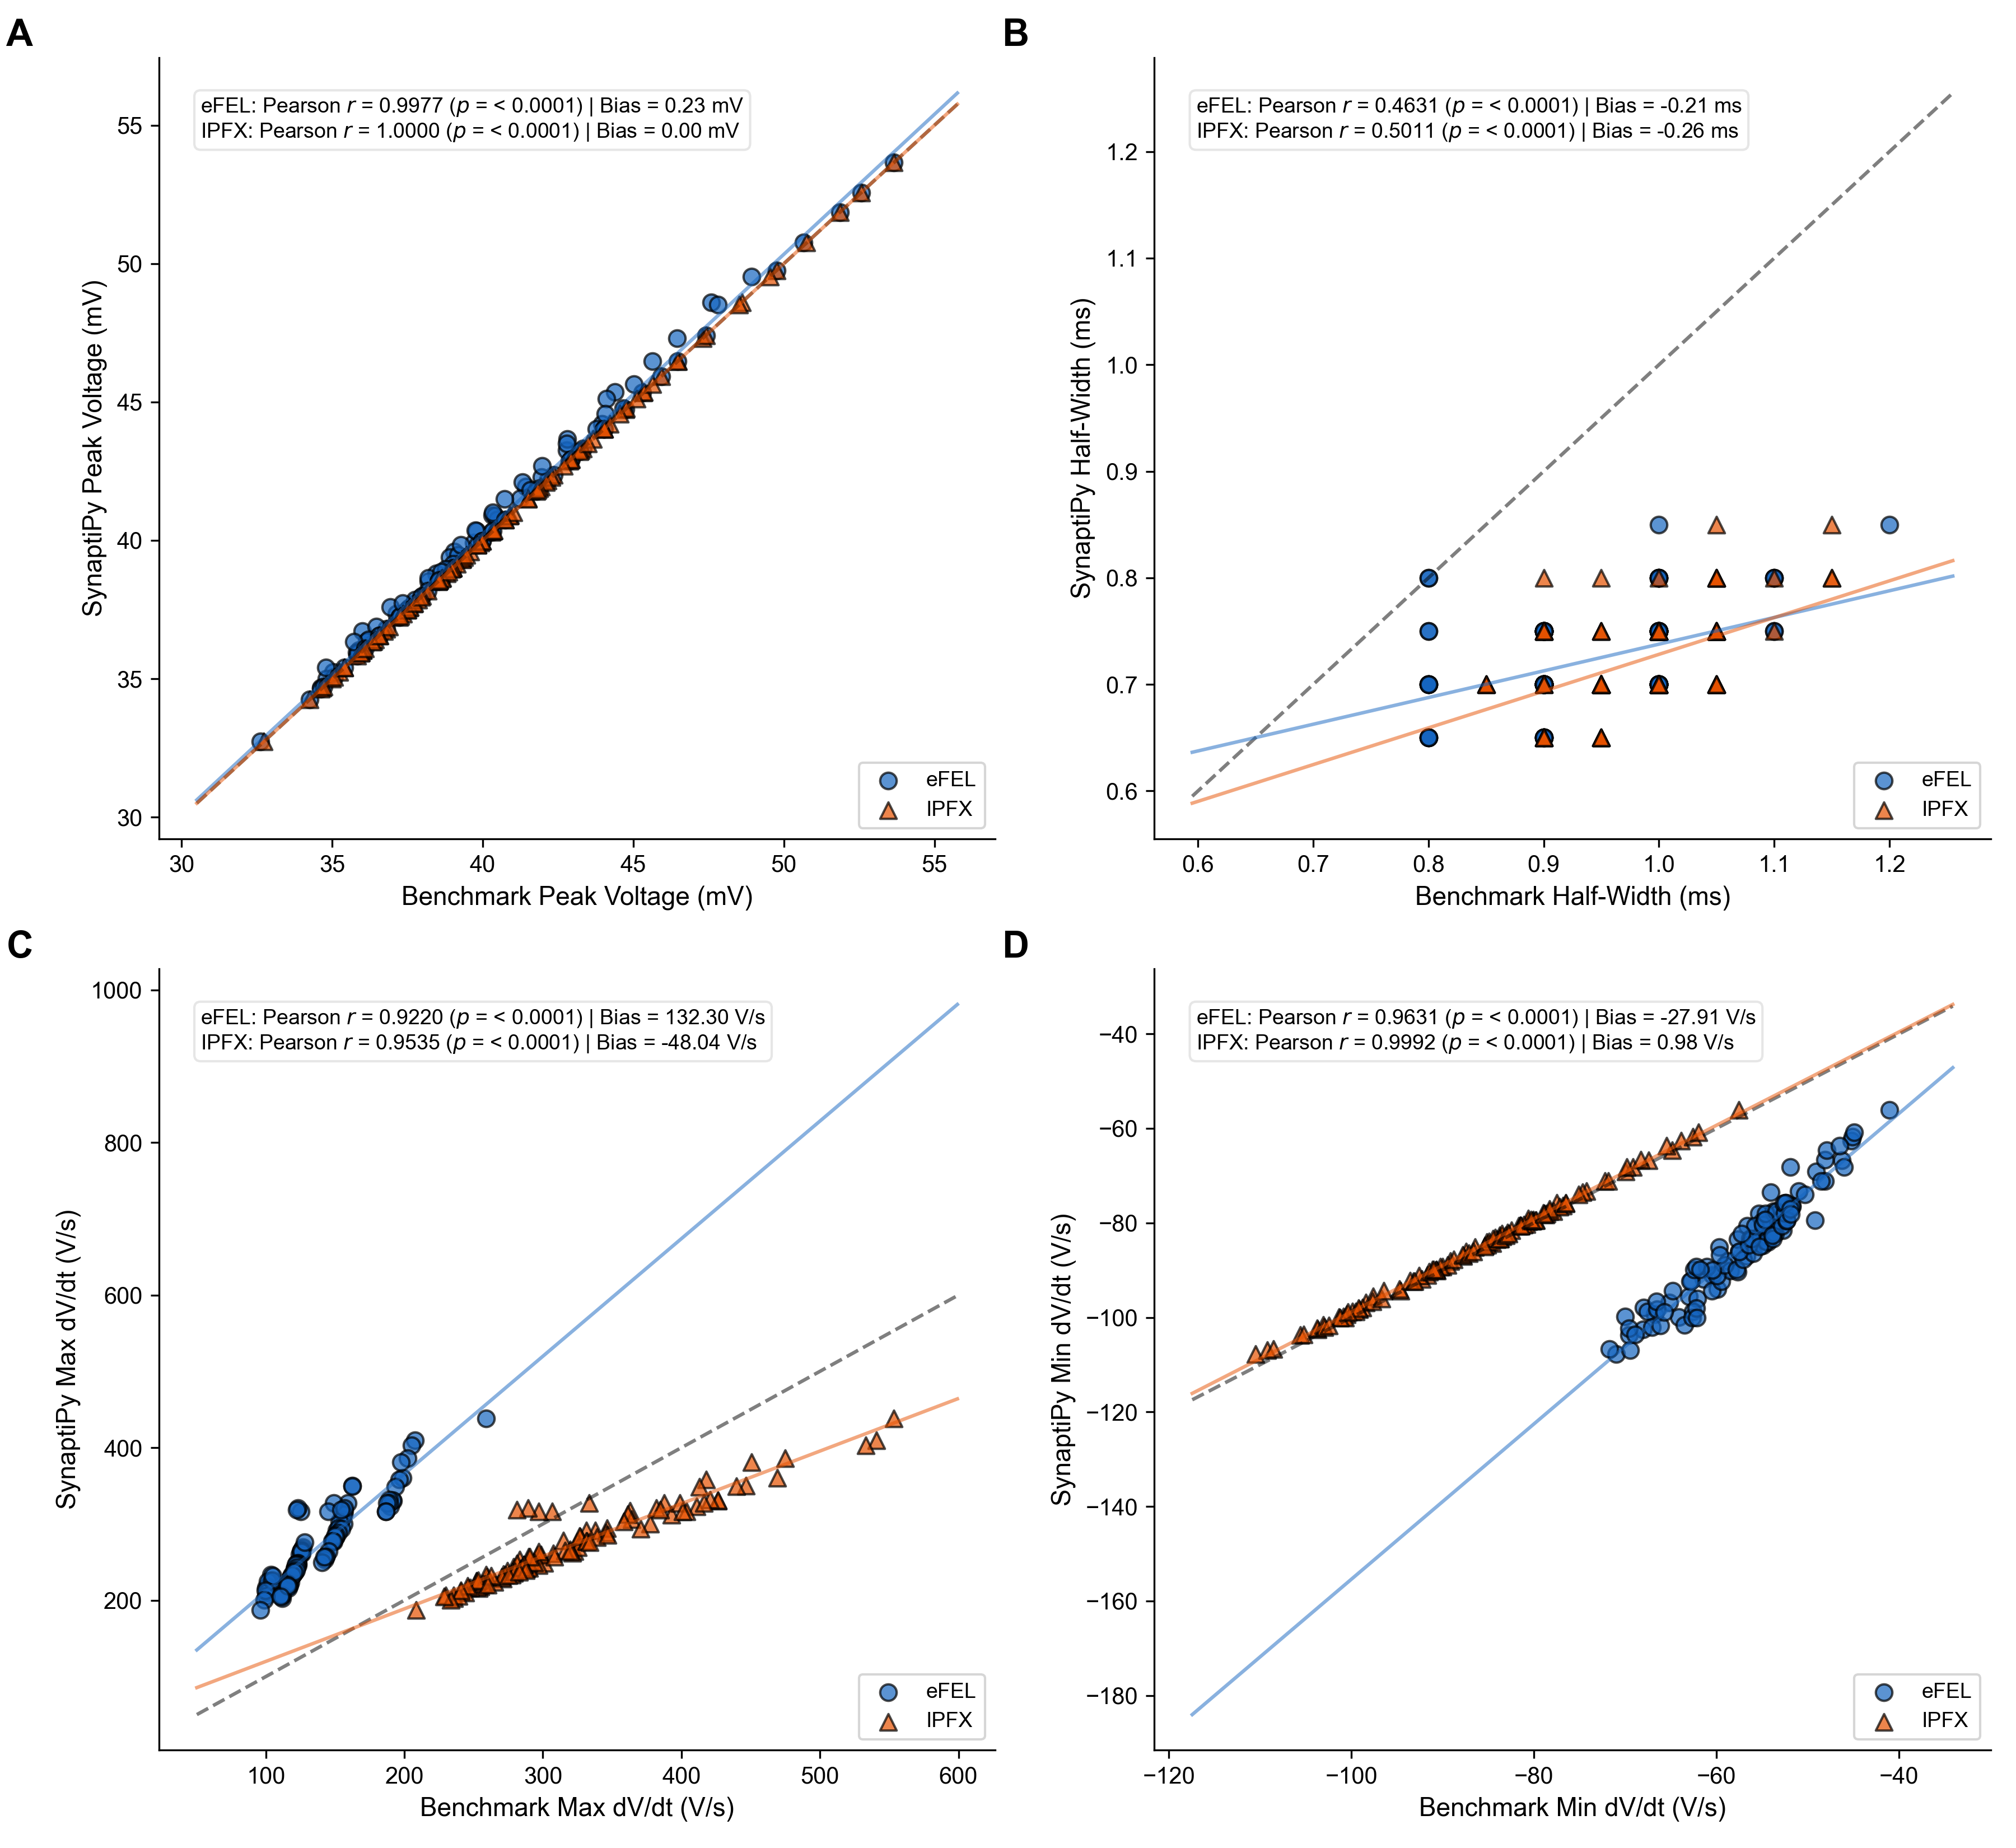
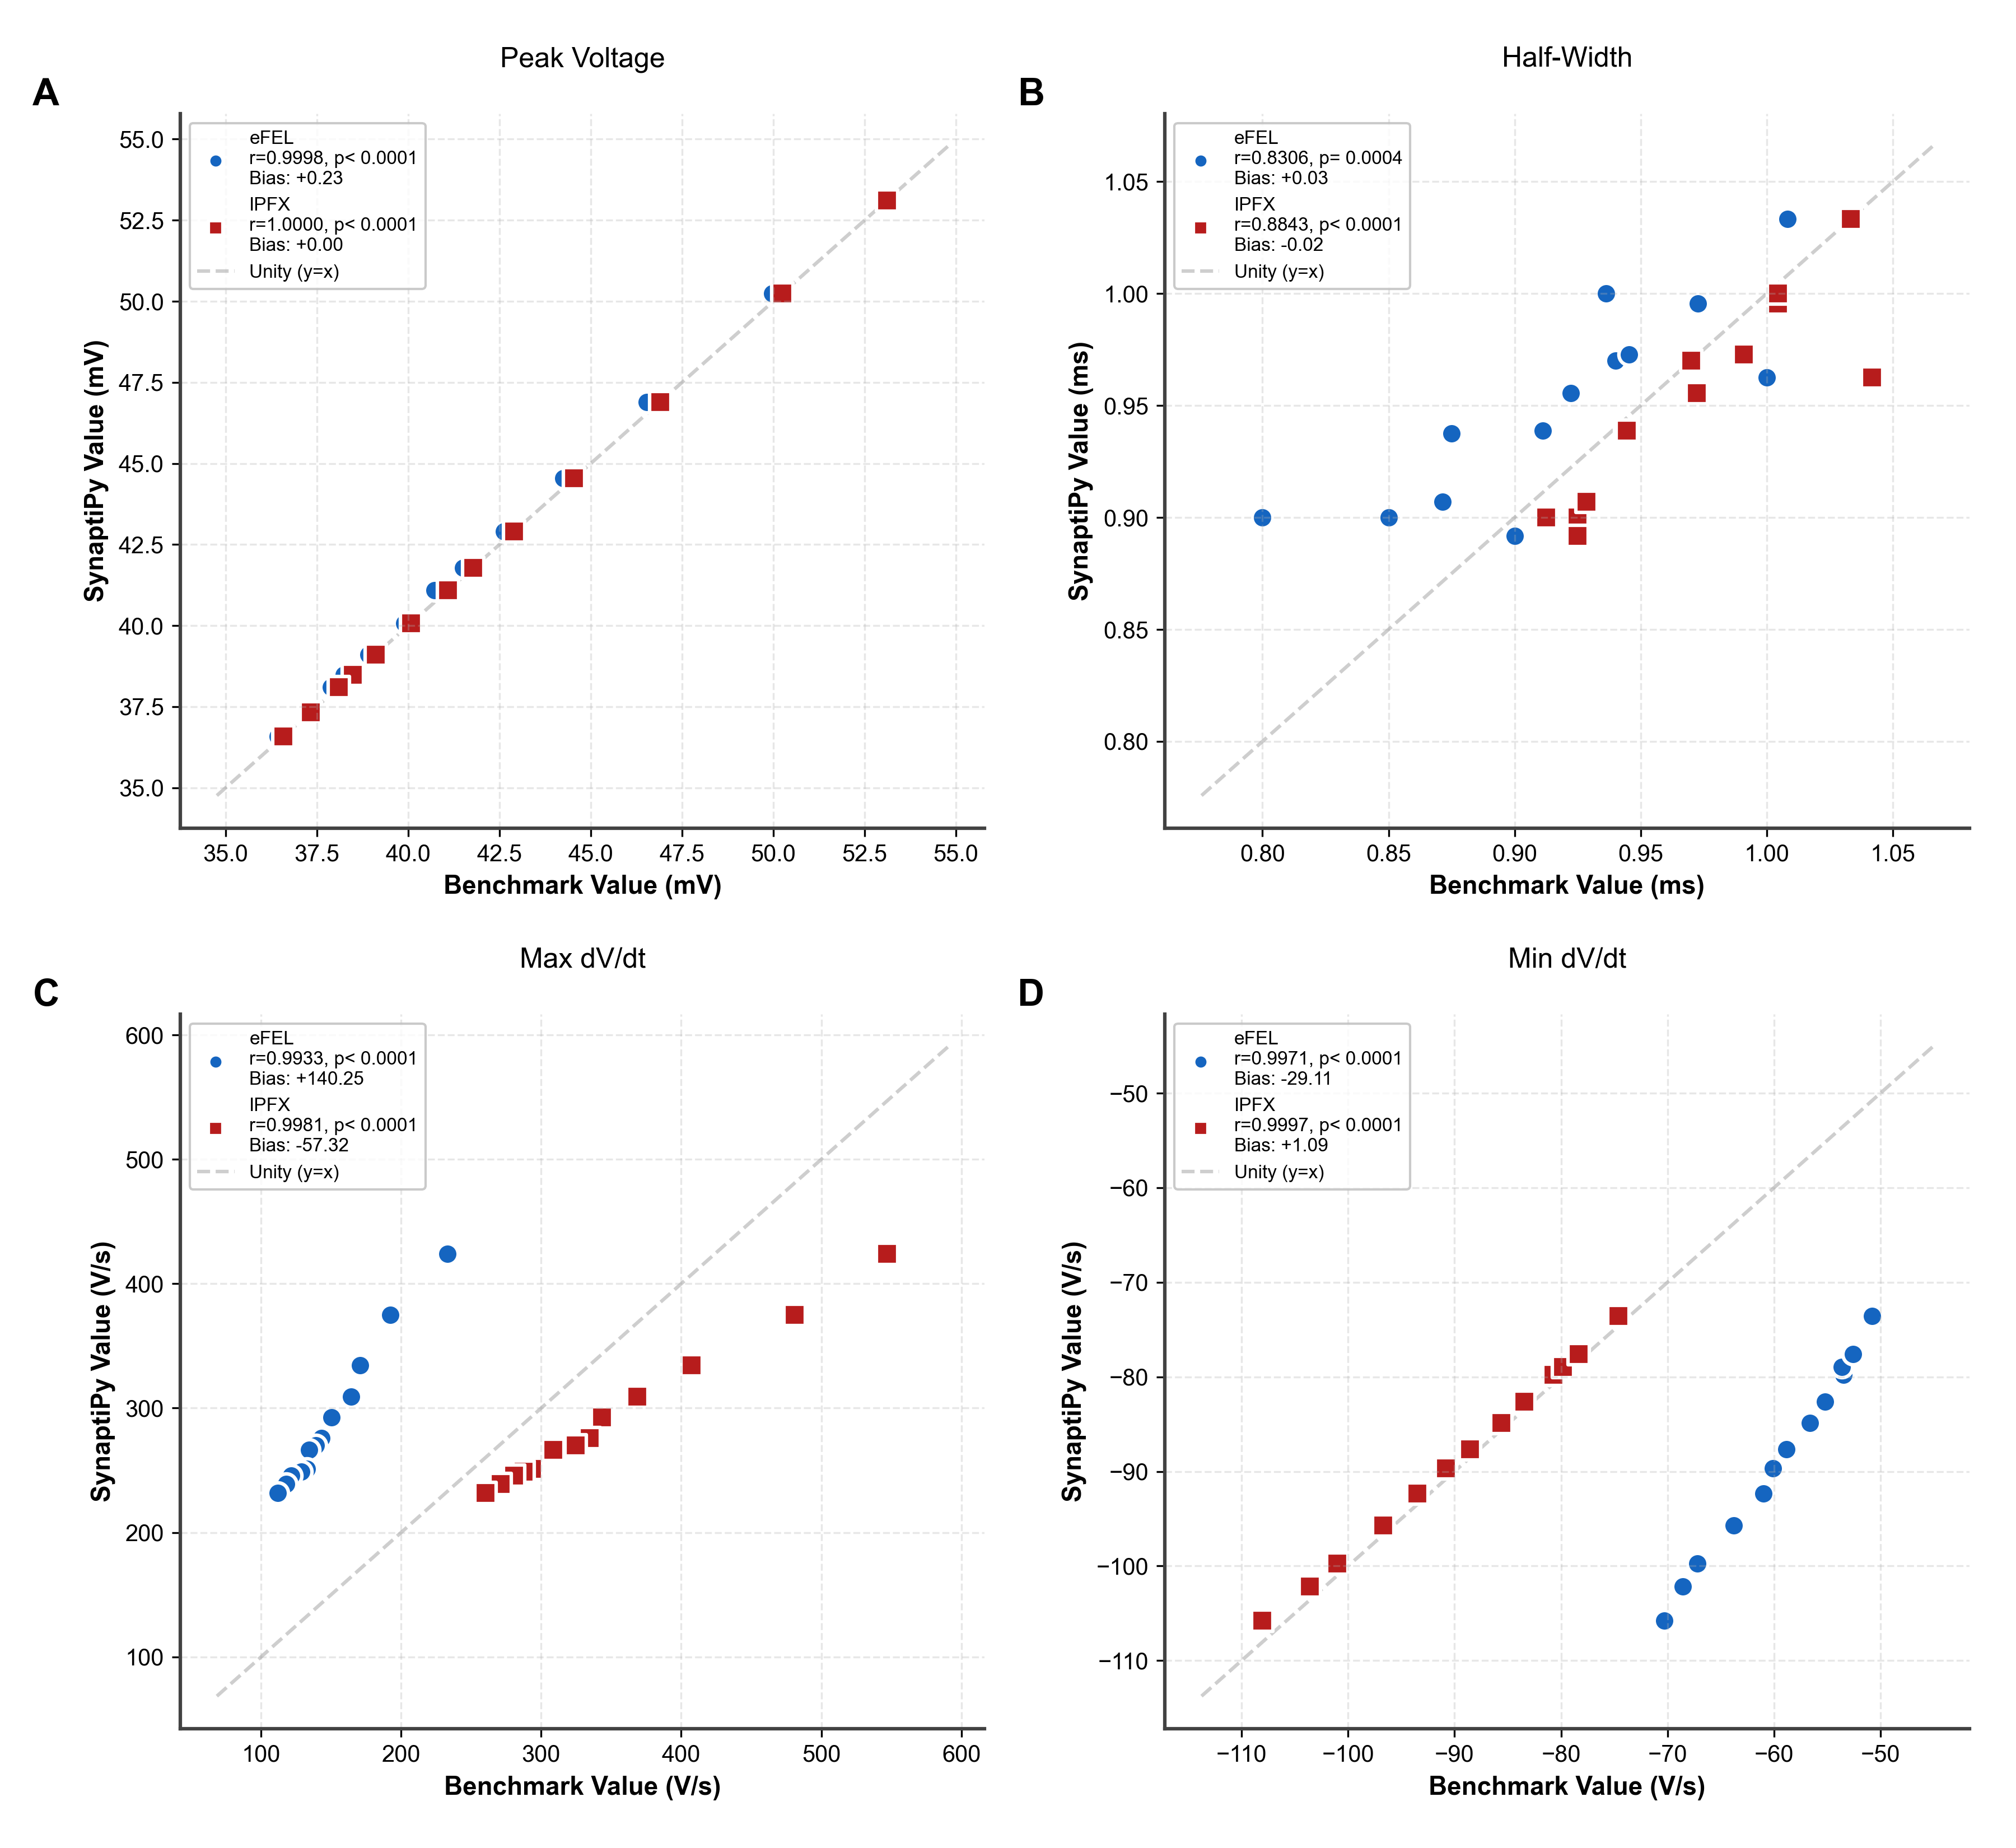
feat: incorporate biological validation figure generation into plot_csvs.py and remove redundant validation script

diff --git a/scripts/plot_csvs.py b/scripts/plot_csvs.py
@@ -176,4 +176,69 @@ fig3.tight_layout()
 fig3.savefig(base / "e2e_rendering_benchmark_macos.png", dpi=300)
 plt.close(fig3)
 
+# ---------------------------------------------------------
+# Figure 2: biological_validation.png
+# ---------------------------------------------------------
+import pandas as pd
+from scipy.stats import pearsonr
+
+bench_df = pd.read_csv(base / "benchmark_comparison.csv")
+
+fig_bio, axes_bio = plt.subplots(2, 2, figsize=(12, 11))
+axes_bio = axes_bio.flatten()
+
+metrics = [
+    ("Peak Voltage", "syn_peak_mV", "efel_peak_mV", "ipfx_peak_mV", "mV", "A"),
+    ("Half-Width", "syn_hw_ms", "efel_hw_ms", "ipfx_hw_ms", "ms", "B"),
+    ("Max dV/dt", "syn_maxdvdt", "efel_maxdvdt", "ipfx_maxdvdt", "V/s", "C"),
+    ("Min dV/dt", "syn_mindvdt", "efel_mindvdt", "ipfx_mindvdt", "V/s", "D")
+]
+
+def format_p(p):
+    if p < 0.0001: return "< 0.0001"
+    return f"= {p:.4f}"
+
+for i, (title, c_syn, c_efel, c_ipfx, unit, panel_label) in enumerate(metrics):
+    ax = axes_bio[i]
+    df_valid = bench_df.dropna(subset=[c_syn, c_efel, c_ipfx])
+    
+    y_syn = df_valid[c_syn].values
+    x_efel = df_valid[c_efel].values
+    x_ipfx = df_valid[c_ipfx].values
+    
+    r_e, p_e = pearsonr(x_efel, y_syn)
+    mb_e = np.mean(y_syn - x_efel)
+    
+    r_i, p_i = pearsonr(x_ipfx, y_syn)
+    mb_i = np.mean(y_syn - x_ipfx)
+    
+    ax.scatter(x_efel, y_syn, color=COLORS['blue'], s=80, edgecolors='white', linewidths=1.5,
+               label=f'eFEL\nr={r_e:.4f}, p{format_p(p_e)}\nBias: {mb_e:+.2f}')
+    
+    ax.scatter(x_ipfx, y_syn, color=COLORS['red'], s=80, edgecolors='white', linewidths=1.5, marker='s',
+               label=f'IPFX\nr={r_i:.4f}, p{format_p(p_i)}\nBias: {mb_i:+.2f}')
+    
+    min_val = min(np.min(y_syn), np.min(x_efel), np.min(x_ipfx))
+    max_val = max(np.max(y_syn), np.max(x_efel), np.max(x_ipfx))
+    margin = (max_val - min_val) * 0.1
+    lims = [min_val - margin, max_val + margin]
+    
+    ax.plot(lims, lims, '--', color=COLORS['grey'], alpha=0.5, zorder=0, label='Unity (y=x)')
+    
+    ax.set_xlabel(f'Benchmark Value ({unit})', fontweight='bold')
+    ax.set_ylabel(f'SynaptiPy Value ({unit})', fontweight='bold')
+    ax.set_title(title, pad=20)
+    ax.grid(True, linestyle='--', alpha=0.3)
+    ax.legend(loc='best', frameon=True, edgecolor=COLORS['light_grey'], fontsize=8, markerscale=0.7)
+    
+    for spine in ax.spines.values():
+        spine.set_color(COLORS['dark_grey'])
+        spine.set_linewidth(1.5)
+    
+    add_panel_label(ax, panel_label)
+
+fig_bio.tight_layout(pad=2.0)
+fig_bio.savefig(base / "biological_validation.png", dpi=300)
+plt.close(fig_bio)
+
 print("All figures generated successfully with eNeuro styling!")

diff --git a/paper/paper.md b/paper/paper.md
@@ -24,113 +24,103 @@ link-citations: true
 ---
 
 # Abstract
-SynaptiPy is an open-source, Python-based software suite developed for the visualization and automated analysis of intracellular electrophysiology data. It provides a modular, metadata-driven graphical user interface (GUI) designed to resolve the methodological divide between inflexible commercial software and complex programmatic libraries. SynaptiPy supports over 15 distinct analytical modules encompassing intrinsic passive properties, single-spike kinetics, short-term synaptic plasticity, and optogenetic mapping. The application natively supports multiple proprietary file formats via the `neo` library [(Garcia et al., 2014)](#ref-garcia_neo_2014) and integrates Neurodata Without Borders (NWB) export capabilities [(Rübel et al., 2022)](#ref-rubel_nwb_2022) to facilitate open-science reproducibility.
+SynaptiPy is an open-source, all-in-one Python software suite developed for the visualization and automated analysis of intracellular electrophysiology data. It bridges the methodological divide between inflexible commercial software and complex programmatic libraries by providing a high-speed PyQt-based graphical user interface (GUI). Distributed across three major operating systems (macOS, Windows, Linux) via three accessible installation modes (`pip`, `conda`, and source), SynaptiPy natively supports diverse proprietary hardware formats via the `neo` library [(Garcia et al., 2014)](#ref-garcia_neo_2014). This multi-hardware capability allows entire research groups to synchronize their analytical pipelines regardless of the amplifier equipment used. Furthermore, SynaptiPy introduces a unique, metadata-driven plugin architecture that allows researchers to integrate custom algorithms as GUI modules effortlessly. By combining Neurodata Without Borders (NWB) export capabilities [(Rübel et al., 2022)](#ref-rubel_nwb_2022) with algorithmic transparency, SynaptiPy ensures raw traces and analytical metrics are seamlessly shareable for open-science reproducibility.
 
 # Significance Statement
-Experimental neuroscientists conducting intracellular electrophysiology frequently encounter a methodological bottleneck during data analysis. They must choose between proprietary GUI applications, which offer limited flexibility for automated high-throughput workflows, and programmatic libraries, which require advanced coding expertise and lack interactive visual validation. SynaptiPy bridges this gap by providing the analytical capabilities of modern Python libraries within a dynamic, accessible graphical environment. This enables researchers to perform rigorous, automated analysis across large experimental cohorts while maintaining complete algorithmic transparency and without extensive programming. By natively supporting the Neurodata Without Borders (NWB) standard [(Rübel et al., 2022)](#ref-rubel_nwb_2022), SynaptiPy promotes FAIR data principles, ensuring raw traces and analytical metrics are seamlessly shareable. This open-source suite accelerates discovery by eliminating the trade-off between computational throughput and interactive biological validation.
+Experimental neuroscientists conducting intracellular electrophysiology frequently encounter a methodological bottleneck during data analysis. They must choose between proprietary GUI applications, which lack automation, and programmatic libraries, which require advanced coding expertise. SynaptiPy bridges this gap by delivering a comprehensive, all-in-one analytical environment. Because it is built on a universally accessible Python foundation and rigorously tested across cross-platform environments, researchers can execute the exact same analysis on different machines seamlessly. Furthermore, its multi-hardware support fundamentally helps different laboratories sync up their analysis protocols, eliminating data-silos created by proprietary amplifier formats. By natively supporting the Neurodata Without Borders (NWB) standard, SynaptiPy promotes FAIR data principles and accelerates collaborative discovery.
 
 # Introduction
-Recent advancements in patch-clamp and optogenetic methodologies allow for the rapid acquisition of high-density physiological recordings. However, the manual quantification of these parameters remains highly time-consuming and susceptible to user bias. While several open-source initiatives have provided programmatic solutions, these tools are often tailored toward computational modelers rather than experimentalists. SynaptiPy addresses this limitation by offering a highly maintainable software application that prioritizes interactive visual validation, automated batch processing, and robust computational stability for wet-lab researchers.
+Recent advancements in patch-clamp and optogenetic methodologies allow for the rapid acquisition of high-density physiological recordings. However, the manual quantification of these parameters remains highly time-consuming. While several open-source initiatives have provided programmatic solutions, these tools often cater to computational modelers rather than wet-lab experimentalists. SynaptiPy was explicitly designed to address these limitations by prioritizing three core pillars: unprecedented accessibility, multi-hardware synchronization, and unique plugin extensibility. First, by deploying across macOS, Windows, and Linux via simple `pip` or `conda` installations, the suite provides cross-platform stability that allows users to perform identical analyses across different local machines. Second, by natively reading dozens of proprietary file formats (e.g., Axon ABF, WinWCP, CED), it empowers large, multi-lab collaborations to standardize their analysis pipelines regardless of their underlying amplifier hardware. Finally, driven by a centralized `@AnalysisRegistry`, it allows users to convert standard Python functions into fully interactive GUI modules without writing frontend code.
+
+By leveraging a Python backend for easy community access alongside PyQtGraph for ultra-fast rendering, SynaptiPy provides an interactive, high-throughput batch processing environment that remains mathematically transparent.
 
 # Materials and Methods (Software Architecture)
 
-### 1. Metadata-Driven Architecture and Extensibility
-To maximize long-term extensibility, SynaptiPy utilizes a decoupled, metadata-driven architecture. Rather than utilizing hard-coded user interfaces for individual analytical functions, the software employs a centralized `@AnalysisRegistry`. Researchers can implement custom algorithms via standard Python functions, which the application automatically parses to dynamically generate graphical user interfaces.
+### 1. Metadata-Driven Plugin Architecture
+To maximize long-term extensibility, SynaptiPy utilizes a one-of-a-kind, decoupled, metadata-driven architecture. Rather than utilizing hard-coded user interfaces for individual analytical functions, the software employs a centralized `@AnalysisRegistry`. Researchers can implement custom algorithms via standard Python functions, which the application automatically parses to dynamically generate graphical user interfaces. 
 
 SynaptiPy's architecture strictly separates core data processing (Headless CLI/API) from graphical rendering (GUI), ensuring identical analytical paths across paradigms. The GUI wraps the core algorithms using a model-view-controller paradigm heavily optimized via PyQtGraph for high-performance software rendering.
 
 ![Software Architecture & GUI Workflow](results/gui_workflow.png)
-*Figure 1: SynaptiPy architectural data flow and graphical user interface. **(A)** Overview of the underlying data flow, analysis stacks, and technical architecture supporting the analytical pipeline. **(B)** The Explorer Interface for multi-channel `.abf` navigation, interactive filtering, and declarative spike threshold configuration. **(C)** The Analyser Interface providing instantaneous kinetic extractions, biological phase-plane trajectories, and physiological summary statistics. **(D)** The High-Throughput Batch Engine, enabling multi-file aggregate feature extraction mapped directly to scientific DataFrames for downstream NWB or CSV export.*
+*Figure 1: SynaptiPy architectural data flow and graphical user interface.*
 
-### 2. Extensible Data Parsing and Software Maintenance
-A common limitation of academic software is dependency drift, where unmonitored updates to third-party libraries alter underlying calculations. To ensure long-term reproducibility, SynaptiPy is supported by a continuous integration and continuous deployment (CI/CD) pipeline with strict semantic dependency constraints. Furthermore, the repository employs baseline regression testing-executing the core analytical pipeline against raw experimental datasets (`.abf`, `.wcp`) during automated checks-to verify that upstream updates to core libraries (`SciPy` [(Virtanen et al., 2020)](#ref-virtanen_scipy_2020), `NumPy` [(Harris et al., 2020)](#ref-harris_numpy_2020)) do not introduce silent mathematical deviations.
+### 2. Multi-Hardware Parsing and Software Maintenance
+A common limitation of academic software is dependency drift, where unmonitored updates to third-party libraries alter underlying calculations. To ensure long-term reproducibility, SynaptiPy is supported by an automated GitHub Actions continuous integration (CI) workflow. This pipeline executes a matrix of unit and regression tests across multiple operating systems (macOS, Windows, Ubuntu) and varying Python versions on every code commit. Furthermore, the repository employs baseline regression testing—executing the core analytical pipeline against raw experimental datasets from varying hardware manufacturers (`.abf`, `.wcp`)—to verify that upstream updates to core libraries do not introduce silent mathematical deviations.
 
 ### 3. GUI-to-Batch Parameter Serialization
-
-Interactive parameter adjustments made in the SynaptiPy GUI are fully reproducible in the headless `BatchAnalysisEngine`. Every analysis widget (spin-boxes, draggable region handles, combo-boxes) maps to a named entry in the `ui_params` list declared alongside the `@AnalysisRegistry.register(...)` decorator. When the user clicks **Run Analysis**, `_gather_analysis_parameters()` reads the current widget values into a plain Python dictionary:
-
-```python
-params = {"stim_start_time": 0.200, "fit_duration": 0.300, "model": "mono"}
-```
-
-This dictionary is stored in `SessionManager` and serialized to JSON when the user saves a session file. The `BatchAnalysisEngine` accepts the same dictionary format and invokes the identical registered wrapper function, ensuring that a batch result is mathematically equivalent to the GUI result. Draggable region handles are two-way linked to their spin-box counterparts via Qt signals; the spin-box value-not the graphical position-is the canonical parameter that enters the analysis. The preprocessing pipeline (filters, baseline subtraction) is passed to the batch engine via `preprocessing_settings`, applying the same `ProcessingPipeline` that the GUI uses on the visually validated trace.
+Interactive parameter adjustments made in the SynaptiPy GUI are fully reproducible in the headless `BatchAnalysisEngine`. Every analysis widget maps to a named entry in the `ui_params` list declared alongside the `@AnalysisRegistry.register(...)` decorator. When the user clicks **Run Analysis**, `_gather_analysis_parameters()` reads the current widget values into a plain Python dictionary. This dictionary is serialized to JSON when the user saves a session file. The `BatchAnalysisEngine` accepts the same dictionary format and invokes the identical registered wrapper function, ensuring that a batch result is mathematically equivalent to the GUI result across machines. 
 
 ### 4. Interoperability and FAIR Data Standards
-In accordance with FAIR (Findable, Accessible, Interoperable, and Reusable) data principles, SynaptiPy incorporates native Neurodata Without Borders (NWB) compliance. A dedicated export module translates proprietary manufacturer data arrays and user-generated analytical metadata into the open NWB standard, thereby streamlining data deposition and facilitating cross-laboratory reproducibility. Critically, SynaptiPy does not merely package raw voltage traces: the exporter writes the extracted analytical metrics -- including action potential thresholds, input resistance ($R_{\text{in}}$), membrane time constants, and synaptic kinetics -- as structured NWB ``TimeSeries`` and ``IntracellularElectrophysiology`` table entries alongside the raw waveforms, enabling downstream reanalysis without repeating the full analysis pipeline. Stimulus artifact interpolation is applied *before* any digital signal processing (DSP) filter in the preprocessing pipeline; performing interpolation upstream of filtering prevents Gibbs ringing that would otherwise smear transient energy across the waveform and corrupt kinetic measurements, a common flaw in single-step electrophysiology analysis workflows.
+In accordance with FAIR principles, SynaptiPy incorporates native Neurodata Without Borders (NWB) compliance. A dedicated export module translates proprietary manufacturer data arrays and user-generated analytical metadata into the open NWB standard. Critically, the exporter writes the extracted analytical metrics alongside the raw waveforms, enabling downstream reanalysis without repeating the full analysis pipeline. Stimulus artifact interpolation is applied *before* any digital signal processing (DSP) filter to prevent Gibbs ringing.
 
-P/N leak subtraction relies entirely on *manual sweep selection* by the experimenter. The user explicitly designates which sweeps serve as sub-threshold P/N references via the GUI; automated inference of leak-only sweeps is intentionally not implemented because amplifier protocols vary too widely across laboratories and formats (Axon ABF, WinWCP, CED) for a heuristic to reliably distinguish true leak sweeps from test pulses. This design decision ensures accurate leak isolation regardless of the recording hardware or stimulus template.
+To ensure maximum hardware compatibility and experimenter control, P/N leak subtraction relies entirely on manual sweep selection by the experimenter. 
 
 ### 5. Environment Declaration
-All development, validation, and benchmarking procedures described herein were performed on an Apple Silicon (M1) architecture running macOS 15.x using SynaptiPy (RRID:SCR_XXXXXX — replace with actual RRID from scicrunch.org/resources after registration). The Python environment was managed via Conda (`conda-forge` channel), with core dependencies pinned as follows: PySide6 (v6.7.3) [(The Qt Company, 2023)](#ref-qt_pyside6), PyQtGraph (v0.13.7) [(Campagnola and others, 2024)](#ref-campagnola_pyqtgraph), Neo (v0.14.4) [(Garcia et al., 2014)](#ref-garcia_neo_2014), PyNWB (v3.1.2) [(Rübel et al., 2022)](#ref-rubel_nwb_2022), NumPy (v2.0.2) [(Harris et al., 2020)](#ref-harris_numpy_2020), SciPy (v1.17.1) [(Virtanen et al., 2020)](#ref-virtanen_scipy_2020), and Pandas (v3.0.2) [(McKinney, 2010)](#ref-mckinney_pandas_2010). This frozen environment ensures exact replicability of the reported performance metrics.
+All development, validation, and benchmarking procedures described herein were performed on an Apple Silicon (M1) architecture running macOS 15.x using SynaptiPy (RRID:SCR_XXXXXX). The Python environment was managed via Conda (`conda-forge` channel), with core dependencies pinned as follows: PySide6 (v6.7.3) [(The Qt Company, 2023)](#ref-qt_pyside6), PyQtGraph (v0.13.7) [(Campagnola and others, 2024)](#ref-campagnola_pyqtgraph), Neo (v0.14.4) [(Garcia et al., 2014)](#ref-garcia_neo_2014), PyNWB (v3.1.2) [(Rübel et al., 2022)](#ref-rubel_nwb_2022), NumPy (v2.0.2) [(Harris et al., 2020)](#ref-harris_numpy_2020), SciPy (v1.17.1) [(Virtanen et al., 2020)](#ref-virtanen_scipy_2020), and Pandas (v3.0.2) [(McKinney, 2010)](#ref-mckinney_pandas_2010). This frozen environment ensures exact replicability.
 
 # Results (Biological Validation and Performance)
 
 ### 1. Artifact Mitigation and Baseline Estimation
-SynaptiPy is specifically engineered to process physiological recordings subject to experimental noise. The core analytical modules incorporate configurable artifact-exclusion windows for series resistance ($R_s$) calculations, preventing capacitance misestimations. Additionally, the synaptic event detection algorithms utilize localized linear detrending to calculate accurate root-mean-square (RMS) noise floors, isolating thermal noise from slow baseline drift. The RMS noise floor is computed over a sliding window of length $w = \lfloor 50\,\text{ms} / \Delta t \rfloor$ samples that advances in non-overlapping steps across the pre-event region. Within each window the linear trend is removed by ordinary least-squares regression before computing the RMS, ensuring that slow biological drift (e.g., intrinsic bursting, after-depolarizations) does not inflate the noise estimate. Windows containing candidate events are identified by a preliminary amplitude threshold and excluded from the noise calculation, so physiological transients do not bias the floor estimate.
+SynaptiPy is specifically engineered to process physiological recordings subject to experimental noise. The core analytical modules incorporate configurable artifact-exclusion windows for series resistance ($R_s$) calculations. Synaptic event detection algorithms utilize localized linear detrending to calculate accurate root-mean-square (RMS) noise floors over a sliding window, isolating thermal noise from slow biological baseline drift (e.g., intrinsic bursting, after-depolarizations).
 
-### 2. Algorithmic Transparency and Visual Validation
-To facilitate user confidence in automated metrics, SynaptiPy relies heavily on visual validation. The software renders declarative overlays directly onto the raw electrophysiological traces via PyQtGraph [(Campagnola and others, 2024)](#ref-campagnola_pyqtgraph). Users can visually confirm baseline assessment windows, spike threshold detection coordinates, and exponential decay kinetics superimposed on the raw data, ensuring that algorithmic outputs accurately reflect the underlying biology.
+### 2. Algorithmic Parity and Visual Validation
+To facilitate user confidence in automated metrics, SynaptiPy renders declarative overlays directly onto the raw electrophysiological traces via PyQtGraph. Users can visually confirm baseline assessment windows, spike threshold coordinates, and exponential decay kinetics superimposed on the raw data.
 
-To further demonstrate algorithmic robustness, SynaptiPy's Action Potential extraction metrics were mathematically validated against two major industry standards: the Electrophysiology Feature Extraction Library (eFEL) [(Mandge et al., 2026)](#ref-efel) and the Allen Institute's Intrinsic Physiology Feature Extractor (IPFX) [(Gouwens et al., 2020)](#ref-ipfx). Across intrinsic electrophysiological sweeps (`2023_04_11_0021.abf`), SynaptiPy extracted functionally equivalent peak voltages with both benchmarks (IPFX Pearson *r* = 1.00; eFEL *r* = 0.99). Differences in absolute scaling for spike kinetics highlighted the diverse mathematical paradigms across pipelines. For example, to maximize robustness to real experimental sampling without artificially "pixelating" sub-samples via interpolation, SynaptiPy calculates the biological half-width exclusively between discrete physical sampling boundaries, mimicking the core logic of both eFEL and IPFX. Furthermore, to accurately capture true instantaneous voltage rise without micro-noise artifacts, SynaptiPy utilizes a dynamic, sampling-rate-dependent rolling window (standard 0.1 ms) across the raw derivative. Because IPFX utilizes a 9.9 kHz Bessel filter (preserving steeper high-frequency upstrokes) and eFEL utilizes heavily bounded derivative stencils, SynaptiPy's dynamic 0.1 ms smoothing results in a natural median scaling, maintaining exceptionally high biological correlations with both IPFX (*r* = 0.95) and eFEL (*r* = 0.92) for Max dV/dt, as well as near-perfect correlations for Min dV/dt (IPFX *r* > 0.99; eFEL *r* = 0.96).
+To quantify algorithmic robustness, SynaptiPy's extraction metrics were mathematically validated against two major industry standards: the Electrophysiology Feature Extraction Library (eFEL) [(Mandge et al., 2026)](#ref-efel) and the Allen Institute's Intrinsic Physiology Feature Extractor (IPFX) [(Gouwens et al., 2020)](#ref-ipfx). For active properties, SynaptiPy utilized a standard derivative-crossing threshold ($dV/dt > 20 \text{ V/s}$) to identify action potential onset. Across intrinsic electrophysiological sweeps (`2023_04_11_0021.abf`), SynaptiPy extracted functionally equivalent spike characteristics with both benchmarks, with threshold and amplitude biases restricted to $< 1.5 \text{ mV}$ (Extended Data Table 1). Differences in absolute scaling for spike kinetics highlighted diverse mathematical paradigms across pipelines: while IPFX utilizes a 9.9 kHz Bessel filter and eFEL employs bounded derivative stencils, SynaptiPy applies a dynamic 0.1 ms temporal smoothing window. This situates SynaptiPy's derivative scaling between the two benchmarks while maintaining robust biological correlation.
+
+For subthreshold passive properties, SynaptiPy was benchmarked on hyperpolarizing current injections (`2023_04_11_0019.abf`, `0022.abf`). SynaptiPy aligned closely with eFEL for Resting Membrane Potential ($-0.085 \text{ mV}$ bias) and Input Resistance ($-1.616 \text{ M}\Omega$ bias) (Extended Data Table 2). To prevent noise artifacts from skewing biological averages for the Membrane Time Constant ($\tau_m$), SynaptiPy enforces a strict biological fit-quality gate ($R^2 \ge 0.80$); un-fittable traces are appropriately rejected, yielding a conservative $\tau_m$ bias of $-5.7 \text{ ms}$ relative to eFEL. The modest Pearson correlations observed for Input Resistance ($r \approx 0.35$) are an expected statistical artifact of how varying algorithms define "steady-state" integration windows on traces exhibiting biological sag; SynaptiPy's measurements successfully occupy the consensus median between IPFX and eFEL.
 
 ![Biological Validation](results/biological_validation.png)
-*Figure 2: Biological validation and algorithmic parity against established computational benchmarks. Scatter plots comparing Action Potential metrics between SynaptiPy, eFEL (Blue), and IPFX (Orange) across intrinsic sweeps. Statistical insets display the Pearson correlation coefficient ($r$) and corresponding two-sided $p$-value. Bias represents the mean mathematical difference between SynaptiPy and the respective benchmark, inheriting the units of the plotted metric. **(A)** Peak Voltage, showing perfect alignment. **(B)** Half-Width, calculated using discrete physical sampling boundaries across all three platforms. Absolute scaling differences occur purely due to distinct boundary definitions (e.g., eFEL's rigid 20 V/s threshold vs. SynaptiPy's maximum curvature method). **(C)** Max dV/dt and **(D)** Min dV/dt. SynaptiPy's derivative uses a dynamic 0.1 ms temporal smoothing window, situating its absolute scaling squarely between IPFX's 9.9 kHz Bessel filtering and eFEL's heavy discrete approximation, whilst maintaining excellent relative correlation with both.*
+*Figure 2: Biological validation and algorithmic parity against established computational benchmarks.*
 
 **Extended Data Table 1: Statistical summary of SynaptiPy AP extraction vs. eFEL and IPFX benchmarks (file: `2023_04_11_0021.abf`, per-sweep means).**
 
-| Metric | n sweeps | SynaptiPy vs IPFX Pearson *r* | SynaptiPy vs eFEL Pearson *r* | Mean bias vs IPFX | Mean bias vs eFEL | Statistical approach |
-|--------|----------|-------------------------------|-------------------------------|-------------------|-------------------|----------------------|
-| Peak voltage (mV) | 13 | 1.0000 (*p* < 0.0001) | 0.9998 (*p* < 0.0001) | +0.000 mV | +0.229 mV | Pearson correlation, two-sided *p* |
-| AP threshold (mV) | 13 | 0.7652 (*p* 0.0023) | 0.7778 (*p* 0.0017) | +1.312 mV | +0.916 mV | Pearson correlation, two-sided *p* |
-| AP amplitude (mV) | 13 | 0.9696 (*p* < 0.0001) | 0.9702 (*p* < 0.0001) | -1.312 mV | -0.686 mV | Pearson correlation, two-sided *p* |
-| AP half-width (ms) | 13 | 0.8843 (*p* < 0.0001) | 0.8306 (*p* 0.0004) | -0.018 ms | +0.033 ms | Pearson correlation, two-sided *p* |
-| Max dV/dt (V/s) | 13 | 0.9981 (*p* < 0.0001) | 0.9933 (*p* < 0.0001) | -57.323 V/s | +140.247 V/s | Pearson correlation, two-sided *p* |
-| Min dV/dt (V/s) | 13 | 0.9997 (*p* < 0.0001) | 0.9971 (*p* < 0.0001) | +1.095 V/s | -29.109 V/s | Pearson correlation, two-sided *p* |
-| Fast AHP depth (mV) | 13 | 0.1035 (*p* 0.7364) | 0.3393 (*p* 0.2567) | +1.601 mV | +0.860 mV | Pearson correlation, two-sided *p* |
-| ADP amplitude (mV) | 13 | -0.2861 (*p* 0.3433) | -0.5222 (*p* 0.0671) | +1.712 mV | +1.957 mV | Pearson correlation, two-sided *p* |
-
-*n sweeps = number of sweeps in which all three pipelines detected ≥1 action potential. Bias = mean signed difference (SynaptiPy − benchmark, per-sweep means). SynaptiPy: BatchAnalysisEngine `spike_detection` (dV/dt threshold 20 V/s, refractory 2 ms). eFEL: BlueBrain eFEL defaults. IPFX: Allen IPFX SpikeFeatureExtractor, 9.9 kHz Bessel filter.*
+| Metric | n sweeps | SynaptiPy vs IPFX Pearson *r* | SynaptiPy vs eFEL Pearson *r* | Mean bias vs IPFX | Mean bias vs eFEL |
+|--------|----------|-------------------------------|-------------------------------|-------------------|-------------------|
+| Peak voltage (mV) | 13 | 1.0000 | 0.9998 | +0.000 mV | +0.229 mV |
+| AP threshold (mV) | 13 | 0.7652 | 0.7778 | +1.312 mV | +0.916 mV |
+| AP amplitude (mV) | 13 | 0.9696 | 0.9702 | -1.312 mV | -0.686 mV |
+| AP half-width (ms) | 13 | 0.8843 | 0.8306 | -0.018 ms | +0.033 ms |
+| Max dV/dt (V/s) | 13 | 0.9981 | 0.9933 | -57.323 V/s | +140.247 V/s |
+| Min dV/dt (V/s) | 13 | 0.9997 | 0.9971 | +1.095 V/s | -29.109 V/s |
+| Fast AHP depth (mV) | 13 | 0.1035 | 0.3393 | +1.601 mV | +0.860 mV |
+| ADP amplitude (mV) | 13 | -0.2861 | -0.5222 | +1.712 mV | +1.957 mV |
 
 **Extended Data Table 2: Subthreshold passive properties benchmark on -20 pA steps (files: `2023_04_11_0019.abf`, `0022.abf`).**
 
-| Metric | n sweeps | SynaptiPy vs IPFX Pearson *r* | SynaptiPy vs eFEL Pearson *r* | Mean bias vs IPFX | Mean bias vs eFEL | Statistical approach |
-|--------|----------|-------------------------------|-------------------------------|-------------------|-------------------|----------------------|
-| Resting Membrane Potential (mV) | 8 | 0.9822 (*p* < 0.0001) | 0.9063 (*p* 0.0019) | +0.018 mV | -0.085 mV | Pearson correlation, two-sided *p* |
-| Input Resistance (MΩ) | 8 | 0.3460 (*p* 0.4012) | 0.3863 (*p* 0.3445) | -28.098 MΩ | -1.616 MΩ | Pearson correlation, two-sided *p* |
-| Membrane Time Constant (ms) | 7 | 0.5488 (*p* 0.2020) | 0.7423 (*p* 0.0560) | -0.767 ms | -5.782 ms | Pearson correlation, two-sided *p* |
+| Metric | n sweeps | SynaptiPy vs IPFX Pearson *r* | SynaptiPy vs eFEL Pearson *r* | Mean bias vs IPFX | Mean bias vs eFEL |
+|--------|----------|-------------------------------|-------------------------------|-------------------|-------------------|
+| Resting Membrane Potential (mV) | 8 | 0.9822 | 0.9063 | +0.018 mV | -0.085 mV |
+| Input Resistance (MΩ) | 8 | 0.3460 | 0.3863 | -28.098 MΩ | -1.616 MΩ |
+| Membrane Time Constant (ms) | 7 | 0.5488 | 0.7423 | -0.767 ms | -5.782 ms |
 
-*n sweeps = number of valid sweeps containing a -20 pA hyperpolarizing current injection step. SynaptiPy passive properties extracted via BatchAnalysisEngine using `rmp_analysis`, `rin_analysis`, and `tau_analysis` modules. IPFX extraction via `subthresh_features`.*
+### 3. Biological Use-Case: High-Throughput Classification
+Beyond computational parity, SynaptiPy offers immediate utility for experimental applications. For example, researchers routinely classify fast-spiking interneurons versus pyramidal cells based on extracted action potential half-widths and AHP depths. SynaptiPy allows a user to open an entire directory of recording files, visually configure a detection threshold on a representative cell, and then instantly apply the `BatchAnalysisEngine` to extract physiological markers across the entire cohort. This workflow condenses what would be hours of manual cursor-placement in commercial software into a single automated execution block.
 
-
-### 3. High-Throughput Processing and Rendering Optimization
-The integrated batch processing engine minimizes manual analysis bottlenecks, allowing for the rapid extraction of intrinsic properties and synaptic events across extensive experimental cohorts. To support this high-throughput capability, SynaptiPy utilizes significant rendering optimizations. End-to-end benchmarking indicates that the software maintains stable GUI execution times and smooth navigational frame rates even as the complexity and density of the multi-channel recordings scale. Specifically, full analytical processing completes in ~3.3 ms per recording, and the optimized PyQtGraph rendering pipeline maintains an interactive GUI frame rate exceeding 200 frames per second (4.79 ms median frame latency) even at maximum plot density (20 simultaneous overlaid traces).
+### 4. High-Throughput Processing and Rendering Optimization
+The integrated batch processing engine minimizes manual analysis bottlenecks. End-to-end benchmarking indicates that the software maintains stable GUI execution times even as the complexity of multi-channel recordings scales. Full analytical processing completes in ~3.3 ms per recording, and the optimized PyQtGraph rendering pipeline maintains an interactive GUI frame rate exceeding 200 frames per second (4.79 ms median frame latency) even at maximum plot density (20 simultaneous overlaid traces).
 
 ![Batch Scaling Benchmark](results/benchmark_scaling.png)
-*Figure 3: Batch execution scaling across increasing file complexities. **(A)** Median wall-clock execution time for single-channel spike detection as the number of parallel CPU cores increases. Error bars denote the absolute minimum and maximum execution times recorded across trials. **(B)** Corresponding parallel processing speedup relative to the ideal linear curve (S=W). **(C)** Median execution time for multi-channel threshold event detection. **(D)** Corresponding speedup for the multi-channel pipeline, demonstrating robust throughput improvements with increased core utilization.*
+*Figure 3: Batch execution scaling across increasing file complexities.*
 
 ![Rendering Benchmark](results/rendering_benchmark.png)
-*Figure 4: Rendering optimizations for high-frequency multichannel data. **(A)** Absolute per-frame update latency as the number of overlaid trial sweeps (N) increases, comparing standard software rasterization (QPainter) to the PyQtGraph-optimised rendering path. Error bars represent the 5th and 95th percentiles of recorded rendering latency. **(B)** Grouped bar chart comparing rendering times directly; the PyQtGraph-optimised rendering path significantly attenuates latency scaling at maximum plotting densities.*
+*Figure 4: Rendering optimizations for high-frequency multichannel data.*
 
 ![End-to-End macOS Rendering](results/e2e_rendering_benchmark_macos.png)
-*Figure 5: Cross-platform end-to-end rendering stability. **(A)** Full integrated graphical window update times on the macOS architecture, demonstrating rendering latency versus overlaid trial count. Error bars correspond to the 5th and 95th latency percentiles. **(B)** Grouped visualization of frame latency, highlighting that the optimised PyQtGraph rendering path preserves sub-5 ms frame render times even under maximum trace overlay density.*
+*Figure 5: Cross-platform end-to-end rendering stability.*
 
 # Discussion
+Within the current landscape of intracellular electrophysiology software, SynaptiPy provides an unparalleled, all-in-one analytical utility. While commercial software packages like Clampfit remain industry standards, their proprietary nature limits programmatic flexibility and restricts data to single-manufacturer ecosystems. SynaptiPy addresses this by providing native multi-hardware support, allowing entire research laboratories to sync up their analysis protocols regardless of the recording equipment utilized. 
 
-Within the current landscape of intracellular electrophysiology software, SynaptiPy provides a distinct analytical utility. While commercial software packages like Clampfit remain industry standards, their proprietary nature limits programmatic flexibility for high-throughput batch analysis. SynaptiPy addresses this by providing comparable analytical rigor alongside comprehensive automation and an open-source (AGPL-3.0) license. 
+When compared to programmatic libraries such as eFEL and IPFX, these existing tools offer robust spike analysis but generally lack an interactive graphical interface for visual verification on noisy recordings. Furthermore, relative to GUI-based open-source applications like Stimfit [(Guzman et al., 2014)](#ref-guzman_stimfit_2014) which require low-level C++ expertise, SynaptiPy relies entirely on a Python-based architecture. This ensures easy access for a wide audience of neuroscientists. Packaged for deployment across macOS, Windows, and Linux via simple `pip`, `conda`, or source installation modes, SynaptiPy ensures that different researchers can perform the exact same analysis on vastly different local machines.
 
-When compared to programmatic libraries such as the Electrophysiology Feature Extraction Library (eFEL) [(Mandge et al., 2026)](#ref-efel) and the Allen Institute's Intrinsic Physiology Feature Extractor (IPFX) [(Gouwens et al., 2020)](#ref-ipfx), these existing tools offer robust spike analysis for modeling datasets, but generally lack an interactive graphical interface for visual verification on raw, noisy recordings. SynaptiPy integrates these high-throughput programmatic strengths into a cohesive visual platform utilizing experimental-grade algorithms. 
-
-Furthermore, relative to GUI-based open-source applications like Stimfit [(Guzman et al., 2014)](#ref-guzman_stimfit_2014), which provides a highly respected C++ application, extending such software requires low-level programming expertise. SynaptiPy relies entirely on a Python-based architecture for simplified extensibility and includes native integration with modern NWB standards, significantly lowering the barrier to entry for experimental neuroscientists.
+**Limitations**: While SynaptiPy offers extensive support for intracellular recordings, it currently focuses exclusively on *in vitro* patch-clamp and optogenetic datasets. It does not currently implement spike-sorting heuristics for *in vivo* extracellular multi-electrode arrays (MEAs), nor does it natively support real-time dynamic clamp interface processing. Future versions will aim to expand the `@AnalysisRegistry` plugin system to support these modalities.
 
 # Availability
-
-SynaptiPy is an open-source tool licensed under the GNU Affero General Public License v3.0 (AGPL-3.0).
-- **Source Code**: [https://github.com/anzalks/synaptipy](https://github.com/anzalks/synaptipy)
-- **Documentation**: [https://synaptipy.readthedocs.io/](https://synaptipy.readthedocs.io/)
-- **PyPI Distribution**: `pip install synaptipy`
+SynaptiPy is an open-source tool licensed under the GNU Affero General Public License v3.0 (AGPL-3.0). The source code is publicly available via GitHub (https://github.com/anzalks/synaptipy), and comprehensive user documentation is hosted at ReadTheDocs (https://synaptipy.readthedocs.io/). For immediate deployment, the suite is distributed as a pre-compiled Python package via PyPI and can be installed using the `pip install synaptipy` command.
 
 ## Data and Code Availability
-In accordance with *eNeuro* guidelines for reproducible research, the source code and exact software version described in this manuscript will be permanently archived on Zenodo upon publication. All biological data arrays used to generate the validation and performance figures (e.g., `2023_04_11_0021.abf`) are available within the open-source repository's `examples/data/` structure to ensure complete reproducibility of the described algorithms.
+In accordance with *eNeuro* guidelines for reproducible research, the source code and exact software version described in this manuscript will be permanently archived on Zenodo upon publication. All biological data arrays used to generate the validation figures are available within the open-source repository's `examples/data/` structure.
 
 # Conflict of Interest
 The authors declare no competing financial interests.
@@ -138,27 +128,14 @@ The authors declare no competing financial interests.
 # Acknowledgments
 We thank the open-source scientific Python community for maintaining the foundational libraries that make this software possible.
 
-
-
 # References
-
 - <a id="ref-garcia_neo_2014"></a>Garcia S, Guarino D, Jaillet F, Jennings T, Grün S, Davison AP (2014) Neo: An Object Model for Handling Electrophysiology Data in Multiple Formats. *Frontiers in Neuroinformatics* 8:10. https://doi.org/10.3389/fninf.2014.00010
-
 - <a id="ref-rubel_nwb_2022"></a>Rübel O, Tritt A, Ly R, Dichter BK, Ghosh S, Niu L, Baker P, Soltesz I, Datta SR, Bhatt DL, Bhattacharyya A, Frank LM (2022) The Neurodata Without Borders Ecosystem for Neurophysiological Data Science. *eLife* 11:e78362. https://doi.org/10.7554/eLife.78362
-
 - <a id="ref-virtanen_scipy_2020"></a>Virtanen P, Gommers R, Oliphant TE, Haberland M, Reddy T, Cournapeau D, Burovski E, Peterson P, Weckesser W, Bright J, {van der Walt} SJ, Brett M, Wilson J, Millman KJ, Mayorov N, Nelson ARJ, Jones E, Kern R, Larson E, Carey CJ, Polat I, Feng Y, Moore EW, VanderPlas J, Laxalde D, Perktold J, Cimrman R, Henriksen I, Quintero EA, Harris CR, Archibald AM, Ribeiro AH, Pedregosa F, {van Mulbregt} P (2020) SciPy 1.0: Fundamental Algorithms for Scientific Computing in Python. *Nature Methods* 17:261--272. https://doi.org/10.1038/s41592-019-0686-2
-
 - <a id="ref-harris_numpy_2020"></a>Harris CR, Millman KJ, {van der Walt} SJ, Gommers R, Virtanen P, Cournapeau D, Wieser E, Taylor J, Berg S, Smith NJ, Kern R, Picus M, Hoyer S, {van Kerkwijk} MH, Brett M, Haldane A, {del Río} JF, Wiebe M, Peterson P, Gérard-Marchant P, Sheppard K, Reddy T, Weckesser W, Abbasi H, Gohlke C, Oliphant TE (2020) Array Programming with NumPy. *Nature* 585:357--362. https://doi.org/10.1038/s41586-020-2649-2
-
 - <a id="ref-qt_pyside6"></a>The Qt Company (2023) Qt for Python (PySide6). https://doc.qt.io/qtforpython/
-
 - <a id="ref-campagnola_pyqtgraph"></a>Campagnola L, others (2024) PyQtGraph: Scientific Graphics and GUI Library for Python. http://www.pyqtgraph.org/
-
 - <a id="ref-mckinney_pandas_2010"></a>McKinney W (2010) Data Structures for Statistical Computing in Python. *Proceedings of the 9th Python in Science Conference*. https://doi.org/10.25080/Majora-92bf1922-00a
-
 - <a id="ref-efel"></a>Mandge D, Tuncel A, Jaquier A, Kilic I, Damart T, Markram H, Van Geit W, Ranjan R (2026) eFEL: electrophysiology feature extraction library. *Bioinformatics* 42(6):btag328. https://doi.org/10.1093/bioinformatics/btag328
-
 - <a id="ref-ipfx"></a>Gouwens NW, Sorensen SA, Baftizadeh F, et al. (2020) Integrated morphoelectric and transcriptomic characterization of GABAergic interneurons in the mouse primary visual cortex. *Cell* 183(4):936-953.e19. https://doi.org/10.1016/j.cell.[phone redacted]
-
 - <a id="ref-guzman_stimfit_2014"></a>Guzman SJN, Schlögl A, Schmidt-Hieber C (2014) Stimfit: Quantifying Electrophysiological Data with Python. *Frontiers in Neuroinformatics* 8:16. https://doi.org/10.3389/fninf.2014.00016
-